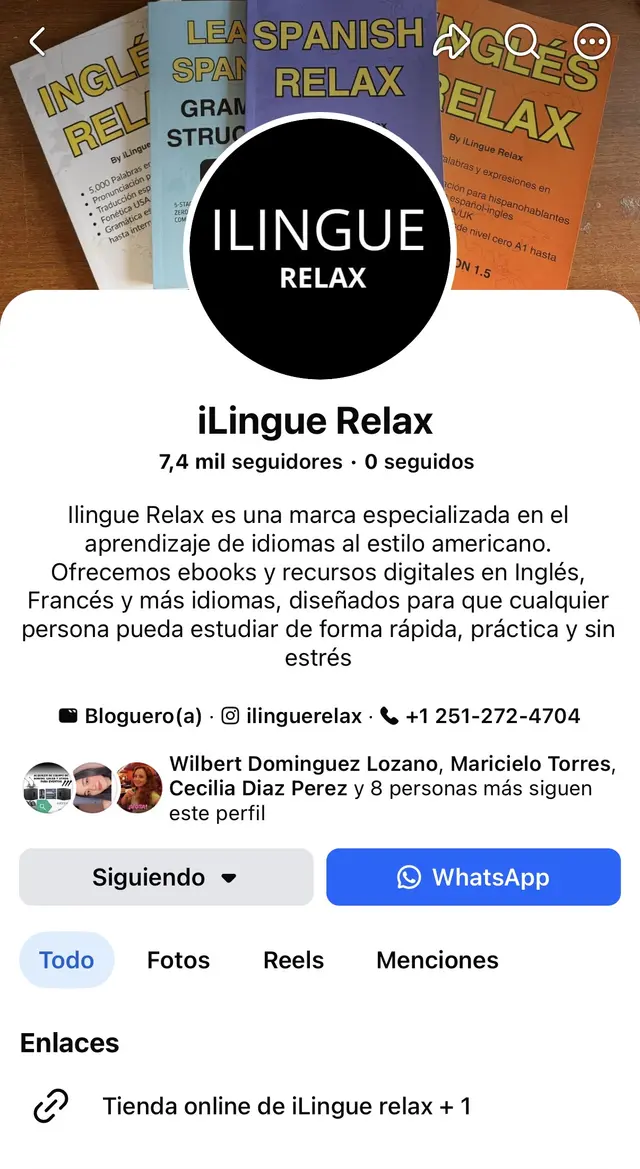
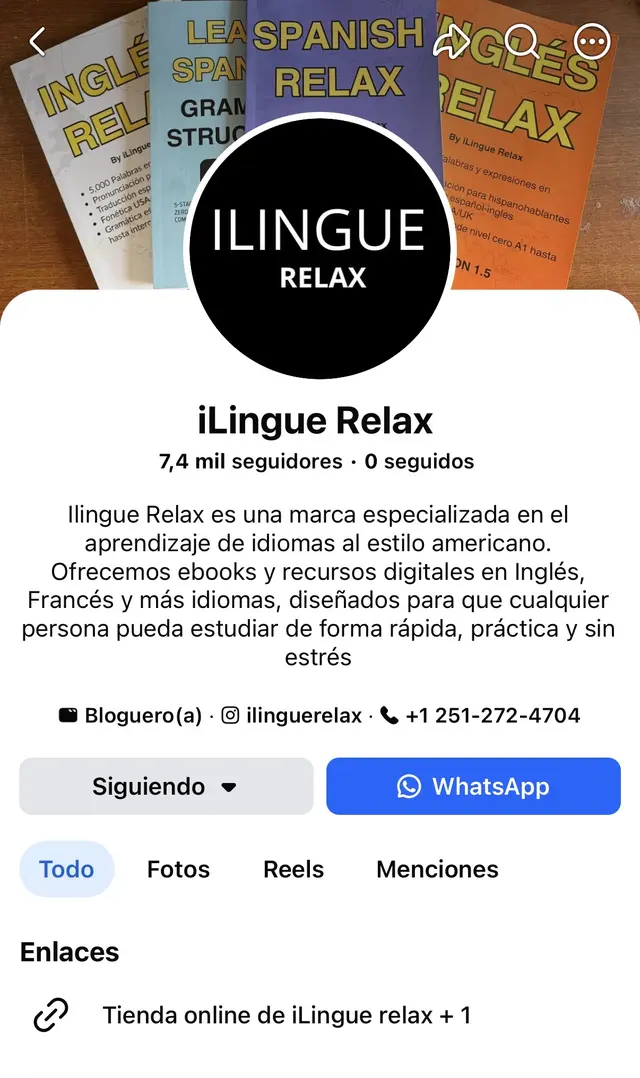
iLingue: etiqueta de discapacidad auditiva, historia y 2.000 personas, 2 celulares iguales sin botones y Google aparte
- Etiquetas: Discapacidad auditiva, 10 años en marketing, +2.000 personas en un año. Historia: en la universidad le daba vergüenza hablar inglés; libros con pronunciación escrita; el más popular, 5.000 palabras en inglés.
- Facebook e Instagram en celulares del MISMO tamaño y sin botones (el celular es el enlace). En la captura de Facebook se quita solo la línea con nombres de seguidores.
- Panel de Google aparte, en fondo claro, con título «Búscanos en Google» y sin botones.

Claude-Session: https://claude.ai/code/session_01BGB48LdfbLWXGgwRhZvKy4

Changed region(s): [[0.0, 0.0, 1.0, 0.9796], [0.9688, 0.1531, 1.0, 0.2143]]

diff --git a/src/components/FounderCommunity.tsx b/src/components/FounderCommunity.tsx
@@ -1,70 +1,82 @@
-import { Facebook, Instagram, Search } from "lucide-react";
 import { useI18n } from "@/i18n/I18nContext";
 
 type Lang = "es" | "en" | "fr" | "it" | "pt";
 
 const INSTAGRAM_URL = "https://www.instagram.com/ilinguerelax/";
-const GOOGLE_URL = "https://www.google.com/search?q=iLingue+Relax";
 const FACEBOOK_URL = "https://www.facebook.com/ilinguerelax";
+const GOOGLE_URL = "https://www.google.com/search?q=iLingue+Relax";
 /** Cifras REALES de las capturas de las cuentas (Facebook 7,4 mil; Instagram 1.818), redondeadas hacia abajo. Actualizar cuando crezcan. */
 const FACEBOOK_FOLLOWERS = 7400;
 const INSTAGRAM_FOLLOWERS = 1800;
 const TOTAL = FACEBOOK_FOLLOWERS + INSTAGRAM_FOLLOWERS;
+/** Dato dado por la dueña (en un año, personas de varios países). Verificar y actualizar. */
+const BUYERS = 2000;
 
 const TXT: Record<Lang, {
-  kicker: string; hello: string; behind: string; p1: string; p2: string; p3: string; bye: string; alt: string;
-  badgeFollowers: string; badgeEng: string; badgeEngSub: string; badgeMkt: string;
-  commKicker: string; commBefore: string; commAfter: string; commText: string; igCta: string; fbCta: string; gCta: string; igAlt: string; fbAlt: string; gAlt: string; gLabel: string;
+  kicker: string; hello: string; behind: string; p1: string; p2: string; p3: string; p4: string; bye: string; alt: string;
+  badgeFollowers: string; badgeEng: string; badgeEngSub: string; pillHearing: string; pillMkt: string; pillSales: string;
+  commKicker: string; commBefore: string; commAfter: string; commText: string; igAlt: string; fbAlt: string;
+  gKicker: string; gTitle: string; gText: string; gAlt: string;
 }> = {
   es: {
     kicker: "Conoce a Crady", hello: "¡Hola! Soy Crady,", behind: "detrás de iLingue Relax.",
-    p1: "Tengo <b>discapacidad auditiva</b>. Nunca aprendí inglés: me daba <b>vergüenza</b>, no escuchaba bien y no sabía cómo se pronunciaban las palabras.",
-    p2: "Por eso creé <b>iLingue Relax</b>: aprender idiomas <b>sin estrés</b>, rápido y con la <b>pronunciación escrita paso a paso</b>. También está pensado para personas con discapacidad auditiva.",
+    p1: "Tengo <b>discapacidad auditiva</b>. En la universidad me daba <b>vergüenza</b> hablar inglés: no escuchaba bien, no sabía cómo se pronunciaban las palabras y las decía mal.",
+    p2: "Por eso creé <b>iLingue Relax</b>: libros para aprender idiomas <b>sin estrés</b>, rápido y con la <b>pronunciación escrita paso a paso</b>. También están pensados para personas con discapacidad auditiva.",
     p3: "Trabajé más de <b>10 años en marketing</b> y mi carrera de base es <b>Ingeniería Civil</b>. Creo que <b>no existen límites</b> para aprender.",
+    p4: "En un año, <b>más de 2.000 personas de varios países</b> ya aprenden con iLingue Relax. El más popular: <b>5.000 palabras en inglés</b>.",
     bye: "¡Mucho gusto! Aprende a tu ritmo, sin vergüenza. 💙", alt: "Crady, detrás de iLingue Relax",
-    badgeFollowers: "seguidores", badgeEng: "Ing. Civil", badgeEngSub: "carrera de base", badgeMkt: "10 años en marketing",
+    badgeFollowers: "seguidores", badgeEng: "Ing. Civil", badgeEngSub: "carrera de base", pillHearing: "Discapacidad auditiva", pillMkt: "10 años en marketing", pillSales: "+2.000 personas en un año",
     commKicker: "Comunidad", commBefore: "Más de", commAfter: "seguidores en Facebook e Instagram", commText: "Mira cómo es la comunidad de iLingue Relax y aprende con nosotros, sin estrés.",
-    igCta: "Sígueme en Instagram", fbCta: "Sígueme en Facebook", gCta: "Búscanos en Google", gAlt: "Panel de iLingue Relax en Google: sitio web y descripción de la marca", gLabel: "En Google", igAlt: "Perfil de Instagram de iLingue Relax (@ilinguerelax)", fbAlt: "Página de Facebook de iLingue Relax: 7,4 mil seguidores",
+    igAlt: "Perfil de Instagram de iLingue Relax (@ilinguerelax)", fbAlt: "Página de Facebook de iLingue Relax: 7,4 mil seguidores",
+    gKicker: "Google", gTitle: "Búscanos en Google", gText: "Así aparece iLingue Relax en Google.", gAlt: "Panel de iLingue Relax en Google: sitio web y descripción de la marca",
   },
   en: {
     kicker: "Meet Crady", hello: "Hi! I'm Crady,", behind: "the person behind iLingue Relax.",
-    p1: "I have a <b>hearing disability</b>. I never learned English: I felt <b>embarrassed</b>, I couldn't hear well and I didn't know how words were pronounced.",
-    p2: "That's why I created <b>iLingue Relax</b>: learn languages <b>without stress</b>, fast, with <b>pronunciation written step by step</b>. It's also designed for people with a hearing disability.",
+    p1: "I have a <b>hearing disability</b>. At university I felt <b>embarrassed</b> to speak English: I couldn't hear well, I didn't know how words were pronounced and I said them wrong.",
+    p2: "That's why I created <b>iLingue Relax</b>: books to learn languages <b>without stress</b>, fast, with <b>pronunciation written step by step</b>. They're also designed for people with a hearing disability.",
     p3: "I worked <b>10+ years in marketing</b> and my base degree is <b>Civil Engineering</b>. I believe there are <b>no limits</b> to learning.",
+    p4: "In one year, <b>more than 2,000 people from several countries</b> are already learning with iLingue Relax. The most popular: <b>5,000 English words</b>.",
     bye: "Nice to meet you! Learn at your own pace, without embarrassment. 💙", alt: "Crady, the person behind iLingue Relax",
-    badgeFollowers: "followers", badgeEng: "Civil Eng.", badgeEngSub: "base degree", badgeMkt: "10 years in marketing",
+    badgeFollowers: "followers", badgeEng: "Civil Eng.", badgeEngSub: "base degree", pillHearing: "Hearing disability", pillMkt: "10 years in marketing", pillSales: "2,000+ people in one year",
     commKicker: "Community", commBefore: "Over", commAfter: "followers on Facebook and Instagram", commText: "See what the iLingue Relax community looks like and learn with us, stress-free.",
-    igCta: "Follow on Instagram", fbCta: "Follow on Facebook", gCta: "Find us on Google", gAlt: "iLingue Relax brand panel on Google: website and brand description", gLabel: "On Google", igAlt: "iLingue Relax Instagram profile (@ilinguerelax)", fbAlt: "iLingue Relax Facebook page: 7.4K followers",
+    igAlt: "iLingue Relax Instagram profile (@ilinguerelax)", fbAlt: "iLingue Relax Facebook page: 7.4K followers",
+    gKicker: "Google", gTitle: "Find us on Google", gText: "This is how iLingue Relax appears on Google.", gAlt: "iLingue Relax brand panel on Google: website and brand description",
   },
   fr: {
     kicker: "Faites connaissance avec Crady", hello: "Bonjour ! Je suis Crady,", behind: "la personne derrière iLingue Relax.",
-    p1: "J'ai un <b>handicap auditif</b>. Je n'ai jamais appris l'anglais : j'avais <b>honte</b>, j'entendais mal et je ne savais pas comment prononcer les mots.",
-    p2: "C'est pourquoi j'ai créé <b>iLingue Relax</b> : apprendre les langues <b>sans stress</b>, vite, avec la <b>prononciation écrite pas à pas</b>. C'est aussi pensé pour les personnes malentendantes.",
+    p1: "J'ai un <b>handicap auditif</b>. À l'université, j'avais <b>honte</b> de parler anglais : j'entendais mal, je ne savais pas comment prononcer les mots et je les disais mal.",
+    p2: "C'est pourquoi j'ai créé <b>iLingue Relax</b> : des livres pour apprendre les langues <b>sans stress</b>, vite, avec la <b>prononciation écrite pas à pas</b>. Ils sont aussi pensés pour les personnes malentendantes.",
     p3: "J'ai travaillé <b>plus de 10 ans dans le marketing</b> et ma formation de base est l'<b>ingénierie civile</b>. Je crois qu'il n'y a <b>aucune limite</b> pour apprendre.",
+    p4: "En un an, <b>plus de 2 000 personnes de plusieurs pays</b> apprennent déjà avec iLingue Relax. Le plus populaire : <b>5 000 mots d'anglais</b>.",
     bye: "Enchanté(e) ! Apprenez à votre rythme, sans gêne. 💙", alt: "Crady, la personne derrière iLingue Relax",
-    badgeFollowers: "abonnés", badgeEng: "Ing. civil", badgeEngSub: "formation de base", badgeMkt: "10 ans en marketing",
+    badgeFollowers: "abonnés", badgeEng: "Ing. civil", badgeEngSub: "formation de base", pillHearing: "Handicap auditif", pillMkt: "10 ans en marketing", pillSales: "2 000+ personnes en un an",
     commKicker: "Communauté", commBefore: "Plus de", commAfter: "abonnés sur Facebook et Instagram", commText: "Découvrez la communauté iLingue Relax et apprenez avec nous, sans stress.",
-    igCta: "Suivez-moi sur Instagram", fbCta: "Suivez-moi sur Facebook", gCta: "Trouvez-nous sur Google", gAlt: "Fiche de la marque iLingue Relax sur Google : site web et description", gLabel: "Sur Google", igAlt: "Profil Instagram d'iLingue Relax (@ilinguerelax)", fbAlt: "Page Facebook d'iLingue Relax : 7,4 k abonnés",
+    igAlt: "Profil Instagram d'iLingue Relax (@ilinguerelax)", fbAlt: "Page Facebook d'iLingue Relax : 7,4 k abonnés",
+    gKicker: "Google", gTitle: "Trouvez-nous sur Google", gText: "Voici comment iLingue Relax apparaît sur Google.", gAlt: "Fiche de la marque iLingue Relax sur Google : site web et description",
   },
   it: {
     kicker: "Conosci Crady", hello: "Ciao! Sono Crady,", behind: "la persona dietro iLingue Relax.",
-    p1: "Ho una <b>disabilità uditiva</b>. Non ho mai imparato l'inglese: mi <b>vergognavo</b>, non sentivo bene e non sapevo come si pronunciassero le parole.",
-    p2: "Per questo ho creato <b>iLingue Relax</b>: imparare le lingue <b>senza stress</b>, in fretta, con la <b>pronuncia scritta passo dopo passo</b>. È pensato anche per le persone con disabilità uditiva.",
+    p1: "Ho una <b>disabilità uditiva</b>. All'università mi <b>vergognavo</b> di parlare inglese: non sentivo bene, non sapevo come si pronunciassero le parole e le dicevo male.",
+    p2: "Per questo ho creato <b>iLingue Relax</b>: libri per imparare le lingue <b>senza stress</b>, in fretta, con la <b>pronuncia scritta passo dopo passo</b>. Sono pensati anche per le persone con disabilità uditiva.",
     p3: "Ho lavorato <b>più di 10 anni nel marketing</b> e la mia laurea di base è in <b>Ingegneria Civile</b>. Credo che <b>non ci siano limiti</b> per imparare.",
+    p4: "In un anno, <b>più di 2.000 persone di vari paesi</b> imparano già con iLingue Relax. Il più popolare: <b>5.000 parole in inglese</b>.",
     bye: "Piacere! Impara con i tuoi tempi, senza imbarazzo. 💙", alt: "Crady, la persona dietro iLingue Relax",
-    badgeFollowers: "follower", badgeEng: "Ing. Civile", badgeEngSub: "laurea di base", badgeMkt: "10 anni nel marketing",
+    badgeFollowers: "follower", badgeEng: "Ing. Civile", badgeEngSub: "laurea di base", pillHearing: "Disabilità uditiva", pillMkt: "10 anni nel marketing", pillSales: "2.000+ persone in un anno",
     commKicker: "Comunità", commBefore: "Più di", commAfter: "follower su Facebook e Instagram", commText: "Scopri la comunità di iLingue Relax e impara con noi, senza stress.",
-    igCta: "Seguimi su Instagram", fbCta: "Seguimi su Facebook", gCta: "Trovaci su Google", gAlt: "Scheda del marchio iLingue Relax su Google: sito web e descrizione", gLabel: "Su Google", igAlt: "Profilo Instagram di iLingue Relax (@ilinguerelax)", fbAlt: "Pagina Facebook di iLingue Relax: 7,4 mila follower",
+    igAlt: "Profilo Instagram di iLingue Relax (@ilinguerelax)", fbAlt: "Pagina Facebook di iLingue Relax: 7,4 mila follower",
+    gKicker: "Google", gTitle: "Trovaci su Google", gText: "Ecco come appare iLingue Relax su Google.", gAlt: "Scheda del marchio iLingue Relax su Google: sito web e descrizione",
   },
   pt: {
     kicker: "Conheça o Crady", hello: "Olá! Eu sou o Crady,", behind: "a pessoa por trás da iLingue Relax.",
-    p1: "Tenho <b>deficiência auditiva</b>. Nunca aprendi inglês: eu tinha <b>vergonha</b>, não ouvia bem e não sabia como as palavras eram pronunciadas.",
-    p2: "Por isso criei a <b>iLingue Relax</b>: aprender idiomas <b>sem estresse</b>, rápido e com a <b>pronúncia escrita passo a passo</b>. Também é pensada para pessoas com deficiência auditiva.",
+    p1: "Tenho <b>deficiência auditiva</b>. Na universidade eu tinha <b>vergonha</b> de falar inglês: não ouvia bem, não sabia como as palavras eram pronunciadas e as dizia errado.",
+    p2: "Por isso criei a <b>iLingue Relax</b>: livros para aprender idiomas <b>sem estresse</b>, rápido e com a <b>pronúncia escrita passo a passo</b>. Também são pensados para pessoas com deficiência auditiva.",
     p3: "Trabalhei <b>mais de 10 anos em marketing</b> e minha formação de base é <b>Engenharia Civil</b>. Acredito que <b>não existem limites</b> para aprender.",
+    p4: "Em um ano, <b>mais de 2.000 pessoas de vários países</b> já aprendem com a iLingue Relax. O mais popular: <b>5.000 palavras em inglês</b>.",
     bye: "Prazer! Aprenda no seu ritmo, sem vergonha. 💙", alt: "Crady, a pessoa por trás da iLingue Relax",
-    badgeFollowers: "seguidores", badgeEng: "Eng. Civil", badgeEngSub: "formação de base", badgeMkt: "10 anos em marketing",
+    badgeFollowers: "seguidores", badgeEng: "Eng. Civil", badgeEngSub: "formação de base", pillHearing: "Deficiência auditiva", pillMkt: "10 anos em marketing", pillSales: "+2.000 pessoas em um ano",
     commKicker: "Comunidade", commBefore: "Mais de", commAfter: "seguidores no Facebook e Instagram", commText: "Veja como é a comunidade iLingue Relax e aprenda com a gente, sem estresse.",
-    igCta: "Siga no Instagram", fbCta: "Siga no Facebook", gCta: "Encontre-nos no Google", gAlt: "Painel da marca iLingue Relax no Google: site e descrição", gLabel: "No Google", igAlt: "Perfil do Instagram da iLingue Relax (@ilinguerelax)", fbAlt: "Página do Facebook da iLingue Relax: 7,4 mil seguidores",
+    igAlt: "Perfil do Instagram da iLingue Relax (@ilinguerelax)", fbAlt: "Página do Facebook da iLingue Relax: 7,4 mil seguidores",
+    gKicker: "Google", gTitle: "Encontre-nos no Google", gText: "Assim a iLingue Relax aparece no Google.", gAlt: "Painel da marca iLingue Relax no Google: site e descrição",
   },
 };
 
@@ -79,21 +91,33 @@ const Rich = ({ html, className }: { html: string; className?: string }) => (
   <p className={className} dangerouslySetInnerHTML={{ __html: html.replace(/<b>/g, '<b class="text-primary">') }} />
 );
 
-/** Celular con la captura COMPLETA (sin recortar), a su altura natural. */
-function Phone({ src, alt, w, h }: { src: string; alt: string; w: number; h: number }) {
+/**
+ * Celular con la captura de la cuenta. TODOS tienen el mismo tamaño (misma proporción); la captura va entera, arriba, y lo que sobra
+ * es el fondo blanco de la propia pantalla. Es un enlace (sin botones aparte).
+ */
+function Phone({ src, alt, href }: { src: string; alt: string; href: string }) {
   return (
-    <div className="relative mx-auto w-[230px] rounded-[2.4rem] bg-neutral-900 p-2.5 shadow-xl ring-8 ring-primary/15 sm:w-[250px]">
-      <div className="absolute left-1/2 top-3.5 z-10 h-4 w-20 -translate-x-1/2 rounded-full bg-neutral-900" aria-hidden="true" />
-      <img src={src} alt={alt} width={w} height={h} loading="lazy" decoding="async" className="h-auto w-full rounded-[1.9rem] bg-white" />
-    </div>
+    <a href={href} target="_blank" rel="noopener noreferrer" aria-label={alt} className="mx-auto block w-[230px] shrink-0 sm:w-[250px]">
+      <span className="relative block rounded-[2.4rem] bg-neutral-900 p-2.5 shadow-xl ring-8 ring-primary/15 transition hover:ring-primary/30">
+        <span className="absolute left-1/2 top-3.5 z-10 h-4 w-20 -translate-x-1/2 rounded-full bg-neutral-900" aria-hidden="true" />
+        <span className="block aspect-[640/1320] w-full overflow-hidden rounded-[1.9rem] bg-white">
+          <img src={src} alt={alt} loading="lazy" decoding="async" width={640} className="h-auto w-full" />
+        </span>
+      </span>
+    </a>
   );
 }
 
+const Pill = ({ children }: { children: React.ReactNode }) => (
+  <span className="inline-block rounded-full border border-primary/30 bg-background px-3 py-1 text-xs font-bold uppercase tracking-wide text-primary">{children}</span>
+);
+
 /**
- * «Conoce a Crady» (mismo modelo que YMT Fitness: foto en arco con dos insignias) + «Más de X seguidores en Facebook e Instagram»
- * (capturas REALES y COMPLETAS de Facebook, Instagram y del panel de Google dentro de celulares). Solo datos reales dados por la dueña: discapacidad auditiva y su historia,
- * 10 años en marketing, Ingeniería Civil, Facebook 7,4 mil e Instagram 1.818 seguidores. Las capturas están en public/img/comunidad
- *. No inventar otras cifras.
+ * «Conoce a Crady» (mismo modelo que YMT Fitness: foto en arco con dos insignias) + «Más de X seguidores» con 2 celulares del mismo tamaño
+ * (Facebook e Instagram) + el panel de Google aparte en fondo claro. Todo sin botones: los celulares son el enlace.
+ * Solo datos reales dados por la dueña: discapacidad auditiva y su historia, 10 años en marketing, Ingeniería Civil, Facebook 7,4 mil e Instagram 1.818
+ * seguidores, más de 2.000 personas de varios países en un año y «5.000 palabras en inglés» como el más popular. Capturas en public/img/comunidad
+ * (la de Facebook: a pedido de la dueña se quitó la línea con nombres de seguidores; lo demás, sin tocar).
  */
 export const FounderCommunity = ({ className = "" }: { className?: string }) => {
   const { language } = useI18n();
@@ -111,7 +135,7 @@ export const FounderCommunity = ({ className = "" }: { className?: string }) => 
                 src="/images/crady-ilingue-relax.webp"
                 alt={t.alt}
                 width={720}
-                height={896}
+                height={893}
                 loading="lazy"
                 decoding="async"
                 className="aspect-[720/893] w-full rounded-t-[999px] rounded-b-2xl border-2 border-primary/50 bg-muted object-cover"
@@ -138,16 +162,21 @@ export const FounderCommunity = ({ className = "" }: { className?: string }) => 
               <Rich html={t.p1} />
               <Rich html={t.p2} />
               <Rich html={t.p3} />
+              <Rich html={t.p4} />
             </div>
             <p className="mt-5 text-lg font-bold text-primary md:text-xl">{t.bye}</p>
-            <p className="mt-3 inline-block rounded-full border border-primary/30 bg-background px-3 py-1 text-xs font-bold uppercase tracking-wide text-primary">{t.badgeMkt}</p>
+            <div className="mt-3 flex flex-wrap gap-2">
+              <Pill>{t.pillHearing}</Pill>
+              <Pill>{t.pillMkt}</Pill>
+              <Pill>{t.pillSales}</Pill>
+            </div>
           </div>
         </div>
       </section>
 
-      {/* Comunidad */}
+      {/* Comunidad: 2 celulares del mismo tamaño */}
       <section className="bg-secondary/40 px-4 py-10 md:px-6 md:py-14" aria-labelledby="ilr-comunidad">
-        <div className="mx-auto max-w-5xl text-center">
+        <div className="mx-auto max-w-4xl text-center">
           <div className="flex items-center justify-center gap-3 text-xs font-bold uppercase tracking-widest text-primary">
             <span className="h-px w-10 bg-primary" aria-hidden="true" /> {t.commKicker} <span className="h-px w-10 bg-primary" aria-hidden="true" />
           </div>
@@ -155,22 +184,23 @@ export const FounderCommunity = ({ className = "" }: { className?: string }) => 
             {t.commBefore} <span className="text-primary">{group(TOTAL, lang)}</span> {t.commAfter}
           </h2>
           <p className="mx-auto mt-4 max-w-xl text-base text-foreground/80 md:text-lg">{t.commText}</p>
+          <div className="mt-10 grid justify-center gap-10 sm:grid-cols-2">
+            <Phone src="/img/comunidad/facebook.webp" alt={t.fbAlt} href={FACEBOOK_URL} />
+            <Phone src="/img/comunidad/instagram.webp" alt={t.igAlt} href={INSTAGRAM_URL} />
+          </div>
+        </div>
+      </section>
 
-          {/* Celular: deslizable con el dedo; escritorio: 3 columnas */}
-          <div className="mt-10 flex snap-x snap-mandatory gap-8 overflow-x-auto px-2 pb-4 [scrollbar-width:none] md:grid md:grid-cols-3 md:overflow-visible md:px-0">
-            {[
-              { id: "fb", src: "/img/comunidad/facebook.webp", w: 640, h: 1169, alt: t.fbAlt, href: FACEBOOK_URL, cta: t.fbCta, icon: Facebook, handle: "iLingue Relax" },
-              { id: "ig", src: "/img/comunidad/instagram.webp", w: 640, h: 1287, alt: t.igAlt, href: INSTAGRAM_URL, cta: t.igCta, icon: Instagram, handle: "@ilinguerelax" },
-              { id: "g", src: "/img/comunidad/google.webp", w: 640, h: 1319, alt: t.gAlt, href: GOOGLE_URL, cta: t.gCta, icon: Search, handle: t.gLabel },
-            ].map((it) => (
-              <div key={it.id} className="flex w-[250px] shrink-0 snap-center flex-col items-center gap-5 md:w-auto">
-                <Phone src={it.src} alt={it.alt} w={it.w} h={it.h} />
-                <a href={it.href} target="_blank" rel="noopener noreferrer" className="inline-flex items-center gap-2 rounded-full border-2 border-primary bg-background px-5 py-3 text-sm font-bold uppercase tracking-wide text-primary shadow-md transition hover:bg-primary hover:text-primary-foreground">
-                  <it.icon className="h-5 w-5" aria-hidden="true" /> {it.cta}
-                </a>
-                <span className="-mt-2 text-sm font-bold text-primary">{it.handle}</span>
-              </div>
-            ))}
+      {/* Google: aparte, fondo claro, sin botones */}
+      <section className="bg-background px-4 py-10 md:px-6 md:py-14" aria-labelledby="ilr-google">
+        <div className="mx-auto max-w-2xl text-center">
+          <div className="flex items-center justify-center gap-3 text-xs font-bold uppercase tracking-widest text-primary">
+            <span className="h-px w-10 bg-primary" aria-hidden="true" /> {t.gKicker} <span className="h-px w-10 bg-primary" aria-hidden="true" />
+          </div>
+          <h2 id="ilr-google" className="mt-3 text-3xl font-extrabold leading-tight tracking-tight text-foreground md:text-4xl">{t.gTitle}</h2>
+          <p className="mx-auto mt-3 max-w-md text-base text-foreground/80 md:text-lg">{t.gText}</p>
+          <div className="mt-8">
+            <Phone src="/img/comunidad/google.webp" alt={t.gAlt} href={GOOGLE_URL} />
           </div>
         </div>
       </section>

diff --git a/AGENTS.md b/AGENTS.md
@@ -52,4 +52,4 @@
 - Pago rápido (iLingue, `ExpressCheckoutBox`): el botón solo ofrece Apple Pay, Google Pay y Link; `paymentMethods: { amazonPay, paypal, klarna: "never" }` porque esos necesitan redirección y `create-express-intent` crea el pago de Pago rápido con `allow_redirects: "never"` (si aparecían y se tocaban, la confirmación fallaba y quedaba un pago «Incompleto» sin método). El pago se crea cuando el comprador autoriza (intención diferida): un «Incompleto» con `[PED]` en metadata es una autorización o confirmación que no terminó; el motivo queda en «Fallos de pago» («express confirm» / «express create_intent»). Apple Pay, Google Pay y Link no se tocan.
 - Upsell y Pago rápido (iLingue, `Checkout.tsx` + `CheckoutSuccess.tsx`): `UpsellPanel` («Agrega a tu pedido y ahorra») ahora va ANTES de `ExpressCheckoutBox`: quien paga con Apple Pay / Google Pay / Link no pasa por el popup de upsell (`offerUpsellThen`) y antes nunca lo veía; al agregar un extra el botón de Pago rápido se vuelve a cotizar solo (firma de `items`). Posterior a la compra: la página de éxito conserva el cobro de 1 clic (solo Stripe con tarjeta guardada, es decir fuera de Europa/LATAM) y para el resto (España/Europa, LATAM, dLocal, transferencias) muestra «Completa tu aprendizaje» con hasta 2 upsells que el cliente aún no tiene, como ENLACE a su página de producto (sin prometer un descuento que la página no aplica); se suma al correo del día 3 (`process-postpurchase-upsell`).
 - OXXO directo (iLingue, `create-checkout-hosted` + `CheckoutPending`): con `stripePaymentMethod: "oxxo"` la función crea y confirma un PaymentIntent OXXO (monto en MXN, ficha de 3 días, `payment_method_data.billing_details` = nombre y correo del checkout, `metadata.source = checkout-hosted-fallback`) y responde `{ oxxo: { number, url, expires_at } }`: ya NO se abre la página de Stripe ni se pide el nombre otra vez. El navegador va a `/checkouts/pending?reason=oxxo_pending&oxxo_url=…&oxxo_ref=…` (solo se acepta un enlace de stripe.com), donde se ve el número de referencia y el botón «Ver mi ficha con código de barras». La entrega sigue siendo SOLO por webhook (`payment_intent.succeeded` ya manejado por `handleSucceededPaymentIntent`). Si Stripe no deja crear la ficha directa, se cae a la sesión de Stripe de antes (con `checkout.session.async_payment_*`). Tras cambiar la función hay que volver a desplegar `create-checkout-hosted`.
-- Confianza (iLingue): cinta superior `LaunchOfferBar` (la monta `StickyBuyBar`, así sale en TODAS las páginas de producto; no en checkout/admin): repite el precio y el precio anterior tachado que ya muestra la página, SIN un «% OFF» propio, y solo con una cifra real (nunca con «Cargando precio…»). Va en el `<body>` con espaciador + barra fija porque `html/body` tienen `overflow-x: hidden` y `sticky` no funciona. `FounderCommunity` («¡Hola! Soy Crady…», mismo modelo que YMT Fitness: foto en arco con 2 insignias + «Más de 9.200 seguidores» con 3 celulares REALES: Facebook, Instagram y Google, 5 idiomas) está en Patrones, `ProductDynamic` e Index; foto en `public/images/crady-ilingue-relax.webp`, capturas COMPLETAS y sin recortar en `public/img/comunidad/` (Facebook, Instagram y el panel de Google «iLingue Relax», a pedido de la dueña: recortadas parecían editadas). OJO privacidad: la de Facebook muestra los nombres de 3 seguidores y el teléfono de contacto de la página; si la dueña quiere ocultarlos, que suba otra captura (p. ej. sin sesión iniciada); no editar nosotros. Historia real dada por la dueña (se llama CRADY, no Gladys): discapacidad auditiva, nunca aprendió inglés por vergüenza (no oía bien ni sabía pronunciar), creó iLingue Relax (idiomas sin estrés, pronunciación escrita paso a paso); 10 años en marketing, base en Ingeniería Civil; Facebook 7,4 mil y Instagram 1.818 seguidores (mostrados como 7.400 y 1.800; actualizar cuando crezcan). NO mostrar la calificación de Trustpilot (1 opinión, 3,7). El celular de Google es el panel de marca (con «Visión general creada por IA»); su botón abre la búsqueda «iLingue Relax» en Google. No hay línea de «cómo se pronuncia iLingue» (era una suposición).
+- Confianza (iLingue): cinta superior `LaunchOfferBar` (la monta `StickyBuyBar`, así sale en TODAS las páginas de producto; no en checkout/admin): repite el precio y el precio anterior tachado que ya muestra la página, SIN un «% OFF» propio, y solo con una cifra real (nunca con «Cargando precio…»). Va en el `<body>` con espaciador + barra fija porque `html/body` tienen `overflow-x: hidden` y `sticky` no funciona. `FounderCommunity` («¡Hola! Soy Crady…», mismo modelo que YMT Fitness: foto en arco con 2 insignias + «Más de 9.200 seguidores» con 3 celulares REALES: Facebook, Instagram y Google, 5 idiomas) está en Patrones, `ProductDynamic` e Index; foto en `public/images/crady-ilingue-relax.webp`, capturas en `public/img/comunidad/` (Facebook, Instagram y el panel de Google «iLingue Relax»): COMPLETAS, sin recortes; a pedido de la dueña, en la de Facebook se quitó SOLO la línea «X, Y y 8 personas más siguen este perfil» (nombres de seguidores) empalmando el resto; nada más se edita. Los celulares tienen todos el MISMO tamaño y son el enlace (sin botones); Facebook+Instagram van juntos y Google aparte en fondo claro. Historia real dada por la dueña (se llama CRADY, no Gladys): discapacidad auditiva, nunca aprendió inglés por vergüenza (no oía bien ni sabía pronunciar), creó iLingue Relax (idiomas sin estrés, pronunciación escrita paso a paso); 10 años en marketing, base en Ingeniería Civil; en un año, más de 2.000 personas de varios países (dato de la dueña, verificar) y «5.000 palabras en inglés» como el más popular; Facebook 7,4 mil y Instagram 1.818 seguidores (mostrados como 7.400 y 1.800; actualizar cuando crezcan). NO mostrar la calificación de Trustpilot (1 opinión, 3,7). El celular de Google es el panel de marca (con «Visión general creada por IA»); su botón abre la búsqueda «iLingue Relax» en Google. No hay línea de «cómo se pronuncia iLingue» (era una suposición).
